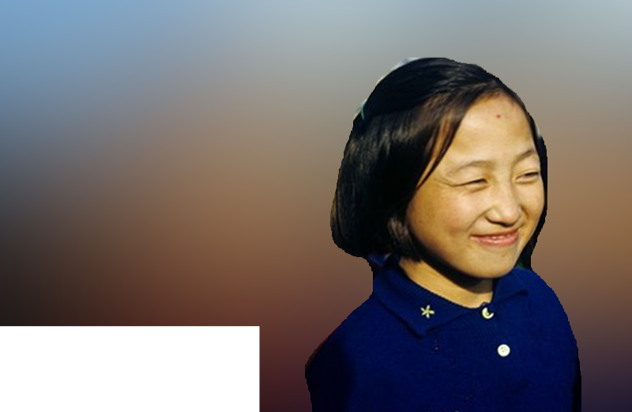
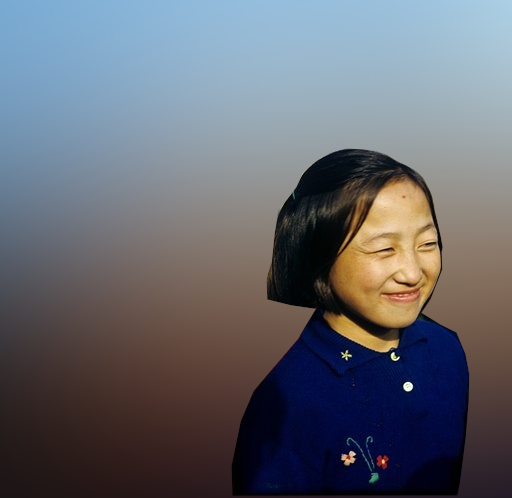
manipulated10+original10

diff --git a/test.js b/test.js
@@ -41,6 +41,8 @@ var welcome1 = {
     " ", 
     " ", 
     " ",
+    " ",
+    " "
 
   ];
   
@@ -80,9 +82,154 @@ var welcome1 = {
       {prompt: "I like meat.", name: 'data4', labels: scale_1}
     ],
     // randomize_question_order: true //질문 순서 랜덤
+    
+  };
+  var likert_page5 = {
+    type: 'survey-likert',
+    questions: [
+      {prompt: "I like vegetables.", name: 'data5', labels: scale_1},
+      {prompt: "I like fruit.", name: 'data5', labels: scale_1},
+      {prompt: "I like meat.", name: 'data5', labels: scale_1}
+    ]
   };
 
+  var likert_page6 = {
+    type: 'survey-likert',
+    questions: [
+      {prompt: "I like vegetables.", name: 'data6', labels: scale_1},
+      {prompt: "I like fruit.", name: 'data6', labels: scale_1},
+      {prompt: "I like meat.", name: 'data6', labels: scale_1}
+    ]
+  };
 
+  var likert_page5 = {
+    type: 'survey-likert',
+    questions: [
+      {prompt: "I like vegetables.", name: 'data5', labels: scale_1},
+      {prompt: "I like fruit.", name: 'data5', labels: scale_1},
+      {prompt: "I like meat.", name: 'data5', labels: scale_1}
+    ]
+  };
+
+  var likert_page7 = {
+    type: 'survey-likert',
+    questions: [
+      {prompt: "I like vegetables.", name: 'data7', labels: scale_1},
+      {prompt: "I like fruit.", name: 'data7', labels: scale_1},
+      {prompt: "I like meat.", name: 'data7', labels: scale_1}
+    ]
+  };
+
+  var likert_page8 = {
+    type: 'survey-likert',
+    questions: [
+      {prompt: "I like vegetables.", name: 'data8', labels: scale_1},
+      {prompt: "I like fruit.", name: 'data8', labels: scale_1},
+      {prompt: "I like meat.", name: 'data8', labels: scale_1}
+    ]
+  };
+
+  var likert_page9 = {
+    type: 'survey-likert',
+    questions: [
+      {prompt: "I like vegetables.", name: 'data9', labels: scale_1},
+      {prompt: "I like fruit.", name: 'data9', labels: scale_1},
+      {prompt: "I like meat.", name: 'data9', labels: scale_1}
+    ]
+  };
+
+  var likert_page10 = {
+    type: 'survey-likert',
+    questions: [
+      {prompt: "I like vegetables.", name: 'data10', labels: scale_1},
+      {prompt: "I like fruit.", name: 'data10', labels: scale_1},
+      {prompt: "I like meat.", name: 'data10', labels: scale_1}
+    ]
+  };
+// 원본 사진 샘플
+
+var likert_page_origin_1 = {
+    type: 'survey-likert',
+    questions: [
+      {prompt: "I like vegetables.", name: 'origin1', labels: scale_1},
+      {prompt: "I like fruit.", name: 'origin1', labels: scale_1},
+      {prompt: "I like meat.", name: 'origin1', labels: scale_1}
+    ]
+  };
+  
+var likert_page_origin_2 = {
+    type: 'survey-likert',
+    questions: [
+      {prompt: "I like vegetables.", name: 'origin2', labels: scale_1},
+      {prompt: "I like fruit.", name: 'origin2', labels: scale_1},
+      {prompt: "I like meat.", name: 'origin2', labels: scale_1}
+    ]
+  };
+  
+var likert_page_origin_3 = {
+    type: 'survey-likert',
+    questions: [
+      {prompt: "I like vegetables.", name: 'origin3', labels: scale_1},
+      {prompt: "I like fruit.", name: 'origin3', labels: scale_1},
+      {prompt: "I like meat.", name: 'origin3', labels: scale_1}
+    ]
+  };
+  var likert_page_origin_4 = {
+    type: 'survey-likert',
+    questions: [
+      {prompt: "I like vegetables.", name: 'origin4', labels: scale_1},
+      {prompt: "I like fruit.", name: 'origin4', labels: scale_1},
+      {prompt: "I like meat.", name: 'origin4', labels: scale_1}
+    ]
+  };
+  var likert_page_origin_5 = {
+    type: 'survey-likert',
+    questions: [
+      {prompt: "I like vegetables.", name: 'origin5', labels: scale_1},
+      {prompt: "I like fruit.", name: 'origin5', labels: scale_1},
+      {prompt: "I like meat.", name: 'origin5', labels: scale_1}
+    ]
+  };
+  var likert_page_origin_6 = {
+    type: 'survey-likert',
+    questions: [
+      {prompt: "I like vegetables.", name: 'origin6', labels: scale_1},
+      {prompt: "I like fruit.", name: 'origin6', labels: scale_1},
+      {prompt: "I like meat.", name: 'origin6', labels: scale_1}
+    ]
+  };
+  var likert_page_origin_7 = {
+    type: 'survey-likert',
+    questions: [
+      {prompt: "I like vegetables.", name: 'origin7', labels: scale_1},
+      {prompt: "I like fruit.", name: 'origin7', labels: scale_1},
+      {prompt: "I like meat.", name: 'origin7', labels: scale_1}
+    ]
+  };
+  var likert_page_origin_8 = {
+    type: 'survey-likert',
+    questions: [
+      {prompt: "I like vegetables.", name: 'origin8', labels: scale_1},
+      {prompt: "I like fruit.", name: 'origin8', labels: scale_1},
+      {prompt: "I like meat.", name: 'origin8', labels: scale_1}
+    ]
+  };
+  var likert_page_origin_9 = {
+    type: 'survey-likert',
+    questions: [
+      {prompt: "I like vegetables.", name: 'origin9', labels: scale_1},
+      {prompt: "I like fruit.", name: 'origin9', labels: scale_1},
+      {prompt: "I like meat.", name: 'origin9', labels: scale_1}
+    ]
+  };
+  var likert_page_origin_10 = {
+    type: 'survey-likert',
+    questions: [
+      {prompt: "I like vegetables.", name: 'origin10', labels: scale_1},
+      {prompt: "I like fruit.", name: 'origin10', labels: scale_1},
+      {prompt: "I like meat.", name: 'origin10', labels: scale_1}
+    ]
+  };
   function downloadCSV(){
 
     console.log(global_dict.length);
@@ -135,7 +282,7 @@ for(var i  in jbSplit){
 saveData("experiment_data", jsPsych.data.get().csv())
 }
 function saveData(name, data){
-    // console.log("들어옴");
+    console.log("들어옴");
     var xhr = new XMLHttpRequest();
     xhr.open('POST', 'write_data_tmp.php'); // 'write_data.php' is the path to the php file described above.
     xhr.setRequestHeader('Content-Type', 'application/json');

diff --git a/plugins/jspsych-survey-likert.js b/plugins/jspsych-survey-likert.js
@@ -109,16 +109,34 @@ jsPsych.plugins['survey-likert'] = (function() {
 
     //extracting order 
     var img_tmp = trial.questions[0].name;
-    img_tmp = img_tmp.substr(4);
 
-    if(window.screen.width>=550){
-      html+= '<img src = "./img/happy_test_data/data'+img_tmp+'.png" style = "position: relative; padding-top : 10%;"></img>';
+    if(img_tmp[0]=="o"){
+      //original images
+      img_tmp = img_tmp.substr(6);
+
+      if(window.screen.width>=550){
+        html+= '<img src = "./img/happy_test_data/origin'+img_tmp+'.png" style = "position: relative; width:50%; padding-top : 5%;"></img>';
+      }
+      else{
+        html+= '<img src = "./img/happy_test_data/origin'+img_tmp+'.png" ></img>';
+      }
+      
+      html += '<form id="jspsych-survey-likert-form">';
+
     }
     else{
-      html+= '<img src = "./img/happy_test_data/data'+img_tmp+'.png" ></img>';
-    }
 
-    html += '<form id="jspsych-survey-likert-form">';
+      img_tmp = img_tmp.substr(4);
+
+      if(window.screen.width>=550){
+        html+= '<img src = "./img/happy_test_data/data'+img_tmp+'.png" style = "position: relative; width:50%; padding-top : 5%;"></img>';
+      }
+      else{
+        html+= '<img src = "./img/happy_test_data/data'+img_tmp+'.png" ></img>';
+      }
+      
+      html += '<form id="jspsych-survey-likert-form">';
+    }
 
     // add likert scale questions ///
     // generate question order. this is randomized here as opposed to randomizing the order of trial.questions
@@ -137,14 +155,16 @@ jsPsych.plugins['survey-likert'] = (function() {
       console.log(trial.questions.length);
       var temp = i+1;
       html += '<label class="jspsych-survey-likert-statement">' + 
-      '<img src="img/SAM/SAM'+temp+'_1.png" style = "width : 15%;"></img>' + 
-      '<img src="img/SAM/SAM'+temp+'_2.png" style = "width : 15%;"></img>' + 
-      '<img src="img/SAM/SAM'+temp+'_3.png" style = "width : 15%;"></img>' + 
-      '<img src="img/SAM/SAM'+temp+'_4.png" style = "width : 15%;"></img>' + 
-      '<img src="img/SAM/SAM'+temp+'_5.png" style = "width : 15%;"></img>' + 
+      '<img src="img/SAM/SAM'+temp+'_1.png" style = "width : 10%;"></img>' + 
+      '<img src="img/SAM/SAM'+temp+'_2.png" style = "width : 10%;"></img>' + 
+      '<img src="img/SAM/SAM'+temp+'_3.png" style = "width : 10%;"></img>' + 
+      '<img src="img/SAM/SAM'+temp+'_4.png" style = "width : 10%;"></img>' + 
+      '<img src="img/SAM/SAM'+temp+'_5.png" style = "width : 10%;"></img>' + 
+      '<img src="img/SAM/SAM'+temp+'_6.png" style = "width : 10%;"></img>' + 
+      '<img src="img/SAM/SAM'+temp+'_7.png" style = "width : 10%;"></img>' + 
       '</label>';
       // add options
-      var width = 100 / question.labels.length;
+      var width = 70 / question.labels.length;
       var options_string = '<ul class="jspsych-survey-likert-opts" data-name="'+question.name+'" data-radio-group="Q' + question_order[i] + '">';
       for (var j = 0; j < question.labels.length; j++) {
         options_string += '<li style="width:' + width + '%"><input type="radio" name="Q' + question_order[i] + '" value="' + j + '"';

diff --git a/write.php b/write.php
@@ -1,3 +1,5 @@
+<!-- xampp start 켜서 server on 시킨 다음에 로컬 접속 -->
+
 <!DOCTYPE html>
 <html>
   <head>
@@ -14,24 +16,52 @@
   </head>
   <script>
     var timeline = [];
-    timeline.push(likert_page);
-    timeline.push(likert_page2);
-    
+        timeline.push(likert_page);
+        timeline.push(likert_page2);
         timeline.push(likert_page3);
         timeline.push(likert_page4);
+        timeline.push(likert_page5);
+        timeline.push(likert_page6);
+        timeline.push(likert_page7);
+        timeline.push(likert_page8);
+        timeline.push(likert_page9);
+        timeline.push(likert_page10);
+        //원본 사진
+        timeline.push(likert_page_origin_1);
+        timeline.push(likert_page_origin_2);
+        timeline.push(likert_page_origin_3);
+        timeline.push(likert_page_origin_4);
+        timeline.push(likert_page_origin_5);
+        timeline.push(likert_page_origin_6);
+        timeline.push(likert_page_origin_7);
+        timeline.push(likert_page_origin_8);
+        timeline.push(likert_page_origin_9);
+        timeline.push(likert_page_origin_10);
+        // timeline.push(likert_page11);
+        // timeline.push(likert_page12);
+        // timeline.push(likert_page13);
+        // timeline.push(likert_page14);
+        // timeline.push(likert_page15);
+        // timeline.push(likert_page16);
+        // timeline.push(likert_page17);
+        // timeline.push(likert_page18);
+        // timeline.push(likert_page19);
+        // timeline.push(likert_page20);
+        // timeline.push(likert_page21);
+        // timeline.push(likert_page22);
+        // timeline.push(likert_page23);
+        // timeline.push(likert_page24);
          timeline.push(last_page);   
       //   timeline.push(trial_data);
          /* start the experiment */
         function saveData(name, data){
-        console.log("들어옴");
-        console.log(data);  
-
         var xhr = new XMLHttpRequest();
         xhr.open('POST', 'write_data_tmp.php'); // 'write_data.php' is the path to the php file described above.
         xhr.setRequestHeader('Content-Type', 'application/json');
         xhr.send(JSON.stringify({filename: name, filedata: data}));
 
 }
+
 
 
 // call the saveData function after the experiment is over

diff --git a/mTurk.php b/mTurk.php
@@ -1,0 +1,33 @@
+<!DOCTYPE html>
+<html>
+    <title>mTruk Test</title>
+    <body>
+<div id="experiment_link">You must accept the HIT to begin the experiment</div>.
+</body>
+<script>
+// jsPsych has a method turkInfo() which can determine whether or not the
+// HIT has been accepted.
+var turkInfo = jsPsych.turkInfo();
+
+// turkInfo.previewMode is true in two cases: when the HIT has not been
+// accepted yet OR when the page is viewed outside of mechanical turk.
+// The second property, outsideTurk, is true when the page is viewed
+// outside of mechanical turk, so together, the statement will be true
+// only when in Turk and when the HIT is not accepted yet.
+if(!turkInfo.previewMode && !turkInfo.outsideTurk) {
+  document.querySelector('#experiment_link').innerHMTL = '<a href="link_to_experiment.html" target="_blank">Click Here to Start Experiment</a>';
+}
+
+var turkInfo = jsPsych.turk.turkInfo();
+
+// workerID
+turkInfo.workerId
+
+// hitID
+turkInfo.hitId
+
+// assignmentID
+turkInfo.assignmentId
+</script>
+
+</html>

diff --git a/test.php b/test.php
@@ -1,0 +1,4 @@
+<?php
+
+phpinfo(); 
+?>
